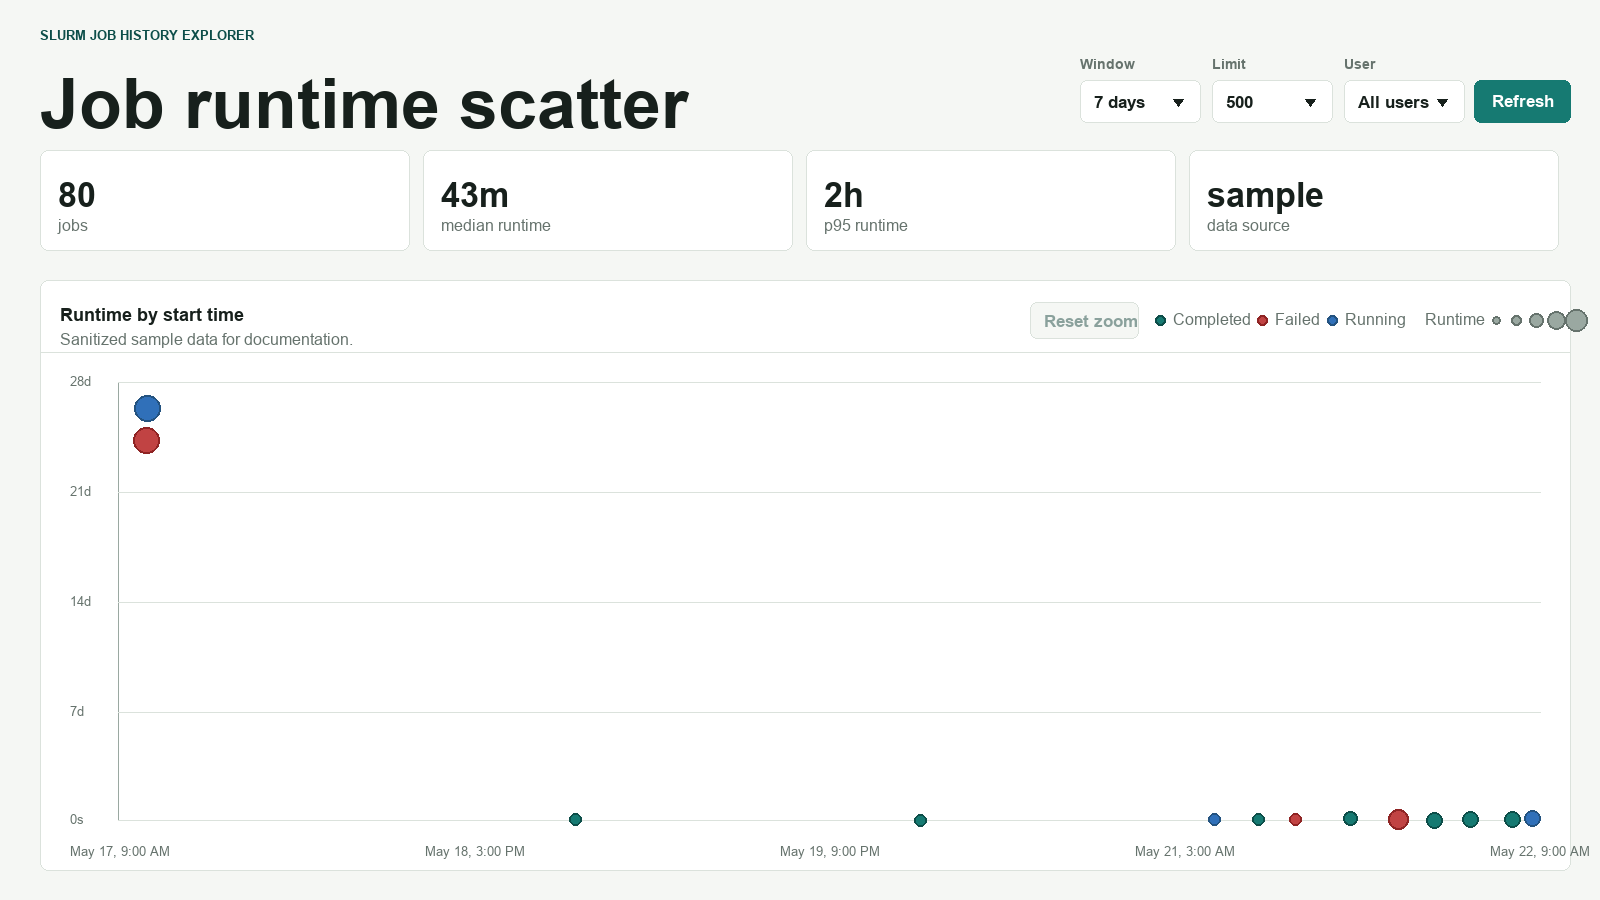
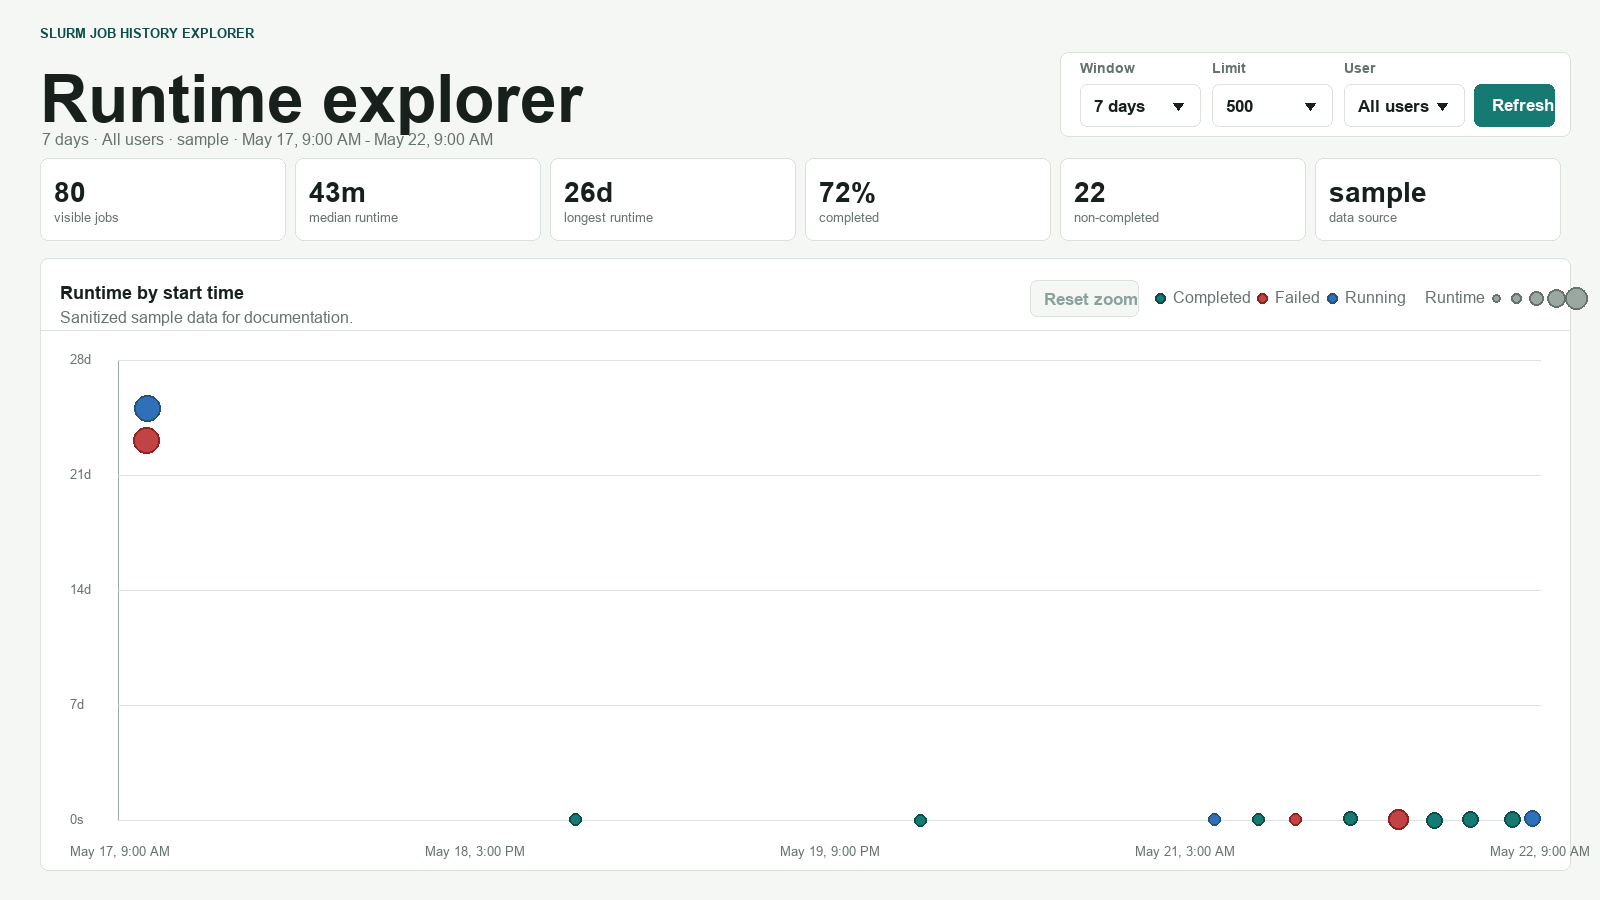
Improve dashboard surrounding UI

diff --git a/public/styles.css b/public/styles.css
@@ -8,6 +8,7 @@
   --accent: #167a72;
   --accent-dark: #0d4e49;
   --orange: #c5662f;
+  --soft: #eef3ef;
   --shadow: 0 18px 55px rgba(23, 32, 28, 0.08);
 }
 
@@ -26,19 +27,26 @@ body {
 .shell {
   width: min(1440px, calc(100vw - 32px));
   margin: 0 auto;
-  padding: 28px 0;
+  padding: 22px 0 28px;
 }
 
 .topbar {
   display: flex;
-  align-items: flex-end;
+  align-items: stretch;
   justify-content: space-between;
   gap: 24px;
-  margin-bottom: 22px;
+  margin-bottom: 16px;
+}
+
+.title-block {
+  display: grid;
+  align-content: end;
+  gap: 5px;
+  min-width: 280px;
 }
 
 .eyebrow {
-  margin: 0 0 6px;
+  margin: 0;
   color: var(--accent-dark);
   font-size: 0.76rem;
   font-weight: 800;
@@ -53,14 +61,28 @@ p {
 }
 
 h1 {
-  font-size: clamp(2rem, 4vw, 4.2rem);
-  line-height: 0.98;
+  font-size: clamp(2.2rem, 5vw, 4.8rem);
+  line-height: 0.92;
   letter-spacing: 0;
 }
 
 h2 {
   font-size: 1rem;
   letter-spacing: 0;
+}
+
+.dataset-meta {
+  color: var(--muted);
+  font-size: 0.92rem;
+}
+
+.control-panel {
+  align-self: end;
+  border: 1px solid var(--line);
+  border-radius: 8px;
+  background: rgba(255, 255, 255, 0.72);
+  box-shadow: 0 10px 32px rgba(23, 32, 28, 0.05);
+  padding: 10px;
 }
 
 .filters {
@@ -93,6 +115,14 @@ select,
 input {
   min-width: 112px;
   padding: 0 10px;
+}
+
+select:focus,
+input:focus,
+button:focus-visible {
+  border-color: var(--accent);
+  outline: 2px solid rgba(22, 122, 114, 0.16);
+  outline-offset: 1px;
 }
 
 button {
@@ -128,8 +158,8 @@ button:disabled {
 
 .summary {
   display: grid;
-  grid-template-columns: repeat(4, minmax(0, 1fr));
-  gap: 12px;
+  grid-template-columns: repeat(6, minmax(0, 1fr));
+  gap: 10px;
   margin-bottom: 14px;
 }
 
@@ -142,14 +172,18 @@ button:disabled {
 }
 
 .summary article {
-  padding: 16px;
+  min-width: 0;
+  padding: 13px 14px;
 }
 
 .summary span {
   display: block;
-  font-size: clamp(1.45rem, 2vw, 2rem);
+  overflow: hidden;
+  font-size: clamp(1.25rem, 1.7vw, 1.75rem);
   font-weight: 850;
   letter-spacing: 0;
+  text-overflow: ellipsis;
+  white-space: nowrap;
 }
 
 .summary p,
@@ -160,12 +194,20 @@ button:disabled {
   font-size: 0.86rem;
 }
 
+.summary p {
+  margin-top: 2px;
+  overflow: hidden;
+  text-overflow: ellipsis;
+  white-space: nowrap;
+}
+
 .chart-panel {
   overflow: hidden;
 }
 
 .chart-head {
   display: flex;
+  align-items: center;
   justify-content: space-between;
   gap: 16px;
   padding: 16px 18px 10px;
@@ -287,6 +329,22 @@ canvas {
   .topbar {
     align-items: stretch;
     flex-direction: column;
+  }
+
+  .control-panel {
+    align-self: stretch;
+  }
+
+  .filters {
+    display: grid;
+    grid-template-columns: repeat(2, minmax(0, 1fr));
+  }
+
+  .filters label,
+  .filters button,
+  select,
+  input {
+    width: 100%;
   }
 
   .summary {

diff --git a/public/index.html b/public/index.html
@@ -9,47 +9,58 @@
   <body>
     <main class="shell">
       <header class="topbar">
-        <div>
+        <div class="title-block">
           <p class="eyebrow">Slurm Job History Explorer</p>
-          <h1>Job runtime scatter</h1>
+          <h1>Runtime explorer</h1>
+          <p id="datasetMeta" class="dataset-meta">Loading job history...</p>
         </div>
-        <form id="filters" class="filters">
-          <label>
-            Window
-            <select id="days" name="days">
-              <option value="1">1 day</option>
-              <option value="7">7 days</option>
-              <option value="14" selected>14 days</option>
-              <option value="30">30 days</option>
-              <option value="90">90 days</option>
-            </select>
-          </label>
-          <label>
-            Limit
-            <input id="limit" name="limit" type="number" min="10" max="5000" step="10" value="500">
-          </label>
-          <label>
-            User
-            <select id="userFilter" name="user">
-              <option value="">All users</option>
-            </select>
-          </label>
-          <button type="submit">Refresh</button>
-        </form>
+        <section class="control-panel" aria-label="Job filters">
+          <form id="filters" class="filters">
+            <label>
+              Window
+              <select id="days" name="days">
+                <option value="1">1 day</option>
+                <option value="7">7 days</option>
+                <option value="14" selected>14 days</option>
+                <option value="30">30 days</option>
+                <option value="90">90 days</option>
+              </select>
+            </label>
+            <label>
+              Limit
+              <input id="limit" name="limit" type="number" min="10" max="5000" step="10" value="500">
+            </label>
+            <label>
+              User
+              <select id="userFilter" name="user">
+                <option value="">All users</option>
+              </select>
+            </label>
+            <button type="submit">Refresh</button>
+          </form>
+        </section>
       </header>
 
       <section class="summary" aria-label="Runtime summary">
         <article>
           <span id="jobCount">0</span>
-          <p>jobs</p>
+          <p>visible jobs</p>
         </article>
         <article>
           <span id="medianRuntime">-</span>
           <p>median runtime</p>
         </article>
         <article>
-          <span id="p95Runtime">-</span>
-          <p>p95 runtime</p>
+          <span id="longestRuntime">-</span>
+          <p>longest runtime</p>
+        </article>
+        <article>
+          <span id="successRate">-</span>
+          <p>completed</p>
+        </article>
+        <article>
+          <span id="problemJobs">-</span>
+          <p>non-completed</p>
         </article>
         <article>
           <span id="source">-</span>

diff --git a/public/app.js b/public/app.js
@@ -4,9 +4,12 @@ const form = document.querySelector("#filters");
 const tooltip = document.querySelector("#tooltip");
 const daysEl = document.querySelector("#days");
 const statusEl = document.querySelector("#status");
+const datasetMetaEl = document.querySelector("#datasetMeta");
 const jobCountEl = document.querySelector("#jobCount");
 const medianRuntimeEl = document.querySelector("#medianRuntime");
-const p95RuntimeEl = document.querySelector("#p95Runtime");
+const longestRuntimeEl = document.querySelector("#longestRuntime");
+const successRateEl = document.querySelector("#successRate");
+const problemJobsEl = document.querySelector("#problemJobs");
 const sourceEl = document.querySelector("#source");
 const resetZoomButton = document.querySelector("#resetZoom");
 const stateLegendEl = document.querySelector("#stateLegend");
@@ -55,6 +58,19 @@ function formatDate(value) {
     hour: "numeric",
     minute: "2-digit",
   }).format(date);
+}
+
+function formatDateRange(start, end) {
+  if (!start || !end) return "-";
+
+  const formatter = new Intl.DateTimeFormat(undefined, {
+    month: "short",
+    day: "numeric",
+    hour: "numeric",
+    minute: "2-digit",
+  });
+
+  return `${formatter.format(new Date(start))} - ${formatter.format(new Date(end))}`;
 }
 
 function escapeHtml(value) {
@@ -180,6 +196,15 @@ function updateStatusText(visibleCount) {
   statusEl.textContent = sourceText;
 }
 
+function updateDatasetMeta() {
+  const selectedUser = userFilterEl.value || "All users";
+  const selectedWindow = daysEl.options[daysEl.selectedIndex]?.textContent || `${daysEl.value} days`;
+  const source = lastPayload?.source || "-";
+  const range = fullTimeRange ? formatDateRange(fullTimeRange.min, fullTimeRange.max) : "-";
+
+  datasetMetaEl.textContent = `${selectedWindow} · ${selectedUser} · ${source} · ${range}`;
+}
+
 function drawChart(jobs) {
   resizeCanvas();
 
@@ -275,10 +300,17 @@ function drawChart(jobs) {
 
 function updateSummary() {
   const runtimes = currentJobs.map((job) => job.runtimeSeconds).filter(Number.isFinite);
+  const completedJobs = currentJobs.filter((job) => normalizeState(job.state) === "COMPLETED").length;
+  const problemJobs = Math.max(0, currentJobs.length - completedJobs);
+  const successRate = currentJobs.length ? Math.round((completedJobs / currentJobs.length) * 100) : null;
+
   jobCountEl.textContent = currentJobs.length.toLocaleString();
   medianRuntimeEl.textContent = formatRuntime(quantile(runtimes, 0.5));
-  p95RuntimeEl.textContent = formatRuntime(quantile(runtimes, 0.95));
+  longestRuntimeEl.textContent = formatRuntime(runtimes.length ? Math.max(...runtimes) : null);
+  successRateEl.textContent = successRate == null ? "-" : `${successRate}%`;
+  problemJobsEl.textContent = problemJobs.toLocaleString();
   sourceEl.textContent = lastPayload?.source || "-";
+  updateDatasetMeta();
   updateStatusText(currentJobs.length);
 }
 